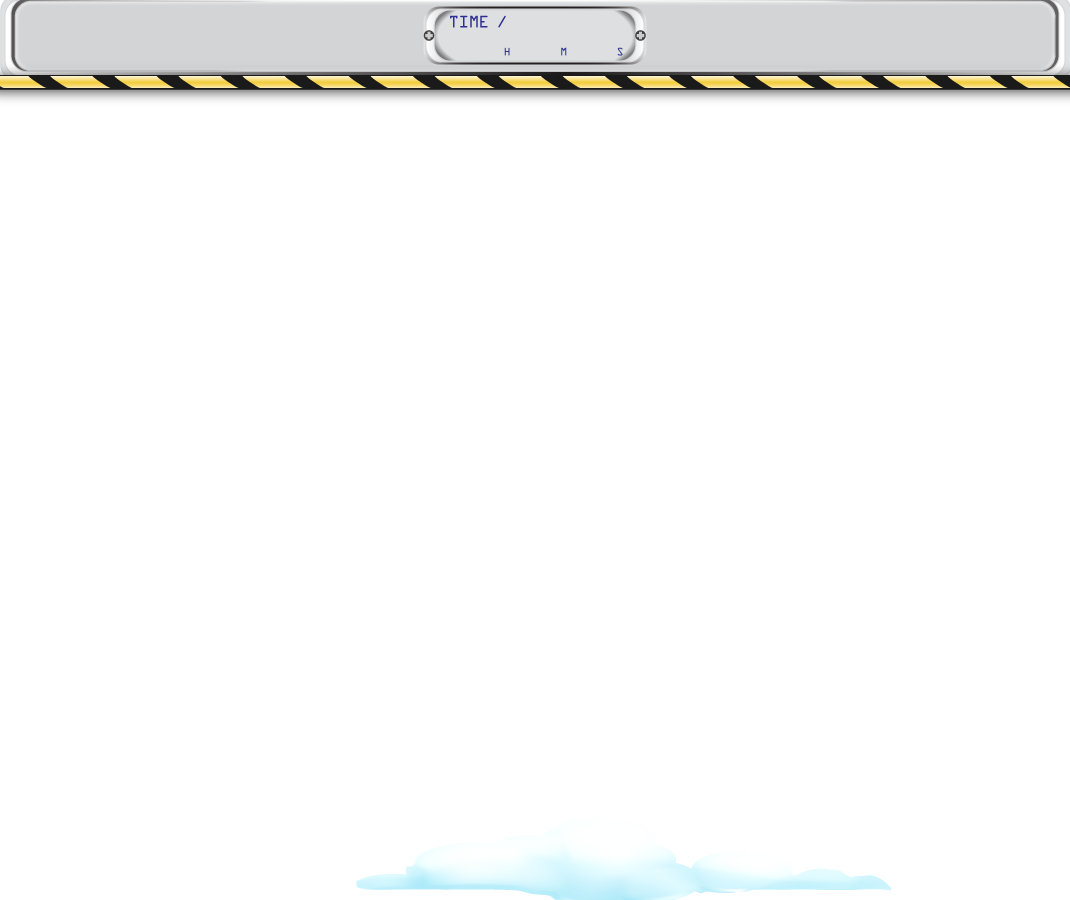
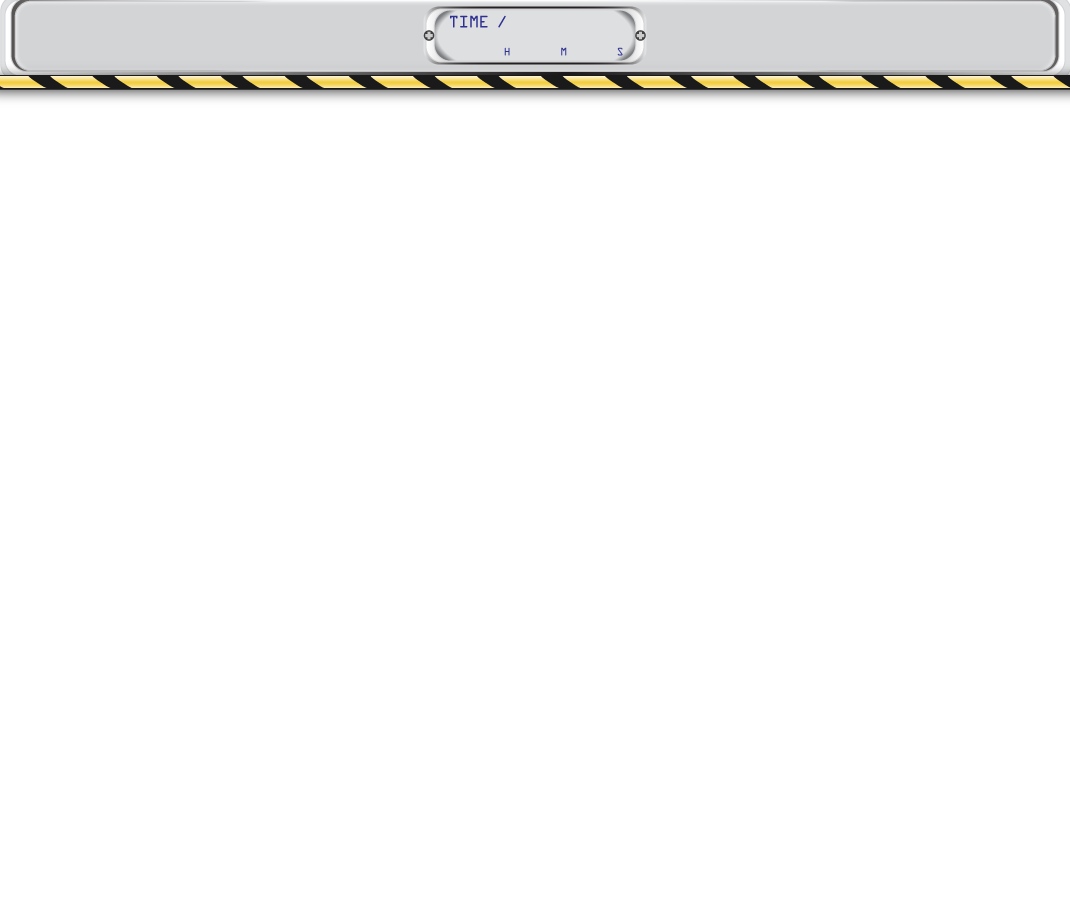
done night scene switching ani. (press tab for it)
don't know when will we change it to night scene, and if we need to switch it back. so just leave it that way so far

Changed region(s): [[0.3393, 0.9333, 0.8327, 1.0]]

diff --git a/Scripts/Core/newUi.js b/Scripts/Core/newUi.js
@@ -4,8 +4,14 @@ var SMCanvas = document.getElementById("sunMoon");
 var SMCtx = SMCanvas.getContext("2d");
 var cloudCanvas = document.getElementById("frontCloud");
 var cloudCtx = cloudCanvas.getContext("2d");
+var nightCloudCavs = document.getElementById("frontCloudNight");
+var nightCloudCtx = nightCloudCavs.getContext("2d");
 var scoreCanvas = document.getElementById("scoresTxt");
 var scoreCtx = scoreCanvas.getContext("2d");
+var dayCanvas = document.getElementById("dayView");
+var dayCtx = dayCanvas.getContext("2d");
+var nightCanvas = document.getElementById("nightView");
+var nightCtx = nightCanvas.getContext("2d");
 
 var health = 70;
 var wound = 10;
@@ -14,6 +20,10 @@ var timeMin = 0;
 var timeHr = 0;
 var timeCount = 0;
 //var timeCount = setInterval(timer, 1000);
+
+var rotAng = 0;
+var nightOpcy = parseFloat(0.0);
+dayCanvas.style.opacity = 1;
 
 //sun and moon
 var star = {
@@ -38,8 +48,8 @@ sun.image.addEventListener("load", loadHandler, false);
 sun.image.src = "Assets/images/img_sun.png";
 
 var moon = Object.create(star);
-moon.x = 830;
-moon.y = 800;
+moon.x = -850;
+moon.y = 1100;
 moon.sourceWidth = 265;
 moon.sourceHeight = 265;
 moon.image = new Image();
@@ -63,6 +73,14 @@ dayCloud.image = new Image();
 dayCloud.image.addEventListener("load", loadHandler, false);
 dayCloud.image.src = "Assets/images/img_uppercloud.png";
 
+var nightCloud = Object.create(upperCloud);
+nightCloud.image = new Image();
+nightCloud.image.addEventListener("load", loadHandler, false);
+nightCloud.image.src = "Assets/images/img_uppercloud_night.png";
+
+var nightSky = new Image();
+nightSky.addEventListener("load", loadHandler, false);
+nightSky.src = "Assets/images/img_nightView.png";
 
 //UI HUD
 var spriteObject =
@@ -135,13 +153,14 @@ var timeS = {
   height:50
 }
 
-
 function render() {
     SMCtx.drawImage(sun.image,sun.x,sun.y,sun.width,sun.height);
-    //SMCtx.drawImage(moon.image,sun.x,sun.y,sun.width,sun.height);
+    SMCtx.drawImage(moon.image,moon.x,moon.y,moon.width,moon.height);
     cloudCtx.drawImage(dayCloud.image,dayCloud.x,dayCloud.y,dayCloud.width,dayCloud.height);
+    nightCtx.drawImage(nightSky,0,0,1070,1000);
+    
+    
     hudCtx.clearRect(0, 0, hudCanvas.width, hudCanvas.height); 
-    //hudCtx.drawImage(image,0,0,264,330);
      if(sprites.length !== 0){
          for(var i = 0; i < sprites.length; i++){
          var sprite = sprites[i];
@@ -149,8 +168,6 @@ function render() {
          sprite.sourceWidth, sprite.sourceHeight,
          sprite.x, sprite.y,
          sprite.width, sprite.height); 
-         //console.log(sprite);
-         //console.log(image);
         }
      }
 }
@@ -177,6 +194,59 @@ function timer(){
   }   
 }
 
+function switchScene(){
+  
+  if(moon.x <= 830){
+    sun.x -= 6;
+    sun.y += 1.2;
+    rotAng += 10;
+    SMCtx.clearRect(0,0,SMCanvas.width,SMCanvas.height);
+    rotateSun(sun.image,sun.x,sun.y,sun.width,sun.height,rotAng);
+    moon.x += 9;
+    moon.y -= 1.5;
+    rotateSun(moon.image,moon.x,moon.y,moon.width,moon.height,rotAng);
+
+    nightCtx.clearRect(0,0,nightCanvas.width,nightCanvas.height);
+    nightCtx.drawImage(nightSky,0,0,1070,1000);
+    
+    if(cloudCanvas.style.opacity <= 1 && nightCanvas.style.opacity <= 1)
+      {
+        dayCanvas.style.opacity -= 0.01;
+        nightCanvas.style.opacity = nightOpcy;
+        if(sun.x <= 400){
+          nightOpcy = nightOpcy + 0.01;
+          cloudCtx.clearRect(0,0,cloudCanvas.width,cloudCanvas.height);
+          cloudCtx.globalAlpha -= 0.02;
+          cloudCtx.drawImage(dayCloud.image,dayCloud.x,dayCloud.y,dayCloud.width,dayCloud.height);
+        
+          nightCloudCtx.clearRect(0,0,cloudCanvas.width,cloudCanvas.height);
+          nightCloudCtx.globalAlpha = nightOpcy;
+          if(nightCloudCtx.globalAlpha > 1)
+            nightCloudCtx.globalAlpha = 1;
+          nightCloudCtx.drawImage(nightCloud.image,nightCloud.x,nightCloud.y,nightCloud.width,nightCloud.height);  
+        }  // console.log(cloudCtx.globalAlpha);
+      }
+  }else{
+      nightCanvas.style.opacity = 1;
+      cloudCtx.globalAlpha = 1;
+      clearInterval(switchIT);
+    }   
+}
+
+function rotateSun(img,x,y,width,height,deg){
+      //Convert degrees to radian 
+      var rad = deg * Math.PI / 180;
+      //Set the origin to the center of the image
+      SMCtx.translate(x + width / 2, y + height / 2);
+      //Rotate the canvas around the origin
+      SMCtx.rotate(rad);
+      //draw the image    
+      SMCtx.drawImage(img,width / 2 * (-1),height / 2 * (-1),width,height);
+      //reset the canvas  
+      SMCtx.rotate(rad * ( -1 ) );
+      SMCtx.translate((x + width / 2) * (-1), (y + height / 2) * (-1));
+}
+
 
 function loadHandler()
 { 
@@ -186,7 +256,10 @@ function loadHandler()
 
 function uiUpdate(){
   window.addEventListener("keydown", onKeyDown);
+  //wrap.addEventListener("mousemove", checkPos);
+  //wrap.addEventListener("click", checkClick);
 }
+
 
 
 //original codes
@@ -263,6 +336,9 @@ function onKeyDown(event)  //HUD cheat codes
               console.log("score width = "+innerScore.width);
               console.log("score sourceWidth = "+innerScore.sourceWidth);
             }
+            break;
+    case 9: //tab
+            switchIT = setInterval(switchScene,60);
             break;
 
     default:

diff --git a/Content/newUI.css b/Content/newUI.css
@@ -1,0 +1,84 @@
+body 
+{
+	margin:0;
+    padding:0;
+	background-color: #3A86C7;
+	font-family: 'Quantico', sans-serif;
+	font-family: 'Russo One', sans-serif;
+}
+
+#wrap{
+	height:100vh;
+	width:100vh;
+	min-height: 100vh;
+    max-width: 1070;
+	margin: 0 auto;
+	padding: 0;
+	position: relative;
+}
+
+canvas{
+	height:100vh;
+	width:100vh;
+	max-width: 1070;
+	min-height: 100vh;
+	position: absolute;
+}
+
+#start{
+	z-index:6;
+	background-image:url(../Assets/images/bg_startScreens.png);
+	background-size: 100% 100%;
+	display: none;
+}
+
+#frontCloud{
+	z-index: 4;
+}
+
+#frontCloudNight{
+	z-index: 4;
+}
+
+#sunMoon{
+	z-index: 3;
+}
+
+#nightView{
+	z-index: 2;
+	background-image:url(../Assets/images/img_nightView.png);
+	background-size: 100% 100%;
+	opacity: 0;
+}
+
+#dayView{
+	z-index: 2;
+	background-image:url(../Assets/images/img_dayView.png);
+	background-size: 100% 100%;
+	opacity: 1.0;
+}
+
+#uiFrame{
+	z-index:1;
+	background-image:url(../Assets/images/img_uiframe.png);
+	background-size: 100% 100%;
+}
+
+#scoresTxt{
+	z-index: 3;
+}
+
+#hud{
+	z-index:2;
+}
+
+#game
+{
+	z-index:0;
+	background-color: darkgrey;	
+}
+
+#gameOver{
+	z-index:2;
+	background-color: rgba(0, 0, 0,0.8);
+}

diff --git a/Content/test.css b/Content/test.css
@@ -1,0 +1,58 @@
+
+#wrap{
+	width:100vh;
+	margin: 0 auto;
+	position: relative;
+}
+
+#start{
+	z-index:2;
+	position: relative;
+	height:100vh;
+	width:100%;
+	background-image:url(../Assets/images/bg_startScreens.png);
+	background-size: 100% 100%;
+}
+
+#uiFrame{
+	z-index:1;
+	position: absolute;
+	height:100vh;
+	width:100%;
+	background-image:url(../Assets/images/frame.png);
+	background-size: 100% 100%;
+/*border: 6px solid #000000;	
+*/
+}
+
+#hud{
+	width:100%;
+}
+
+#game
+{
+	z-index:0;
+	position: absolute;
+	background-color: darkgrey;	
+	height:100vh;
+	width:100%;
+}
+
+#gameOver{
+	z-index:1;
+	position: absolute;
+	height:100vh;
+	width:100%;
+	background-color: rgba(0, 0, 0,0.8);
+}
+
+body 
+{
+	margin: 0;
+	overflow:hidden;
+	/*
+    background-color: #829939;
+	background-image:url(../Assets/images/bg_startScreens.png);
+	*/
+	background-color: #3A86C7;
+}
